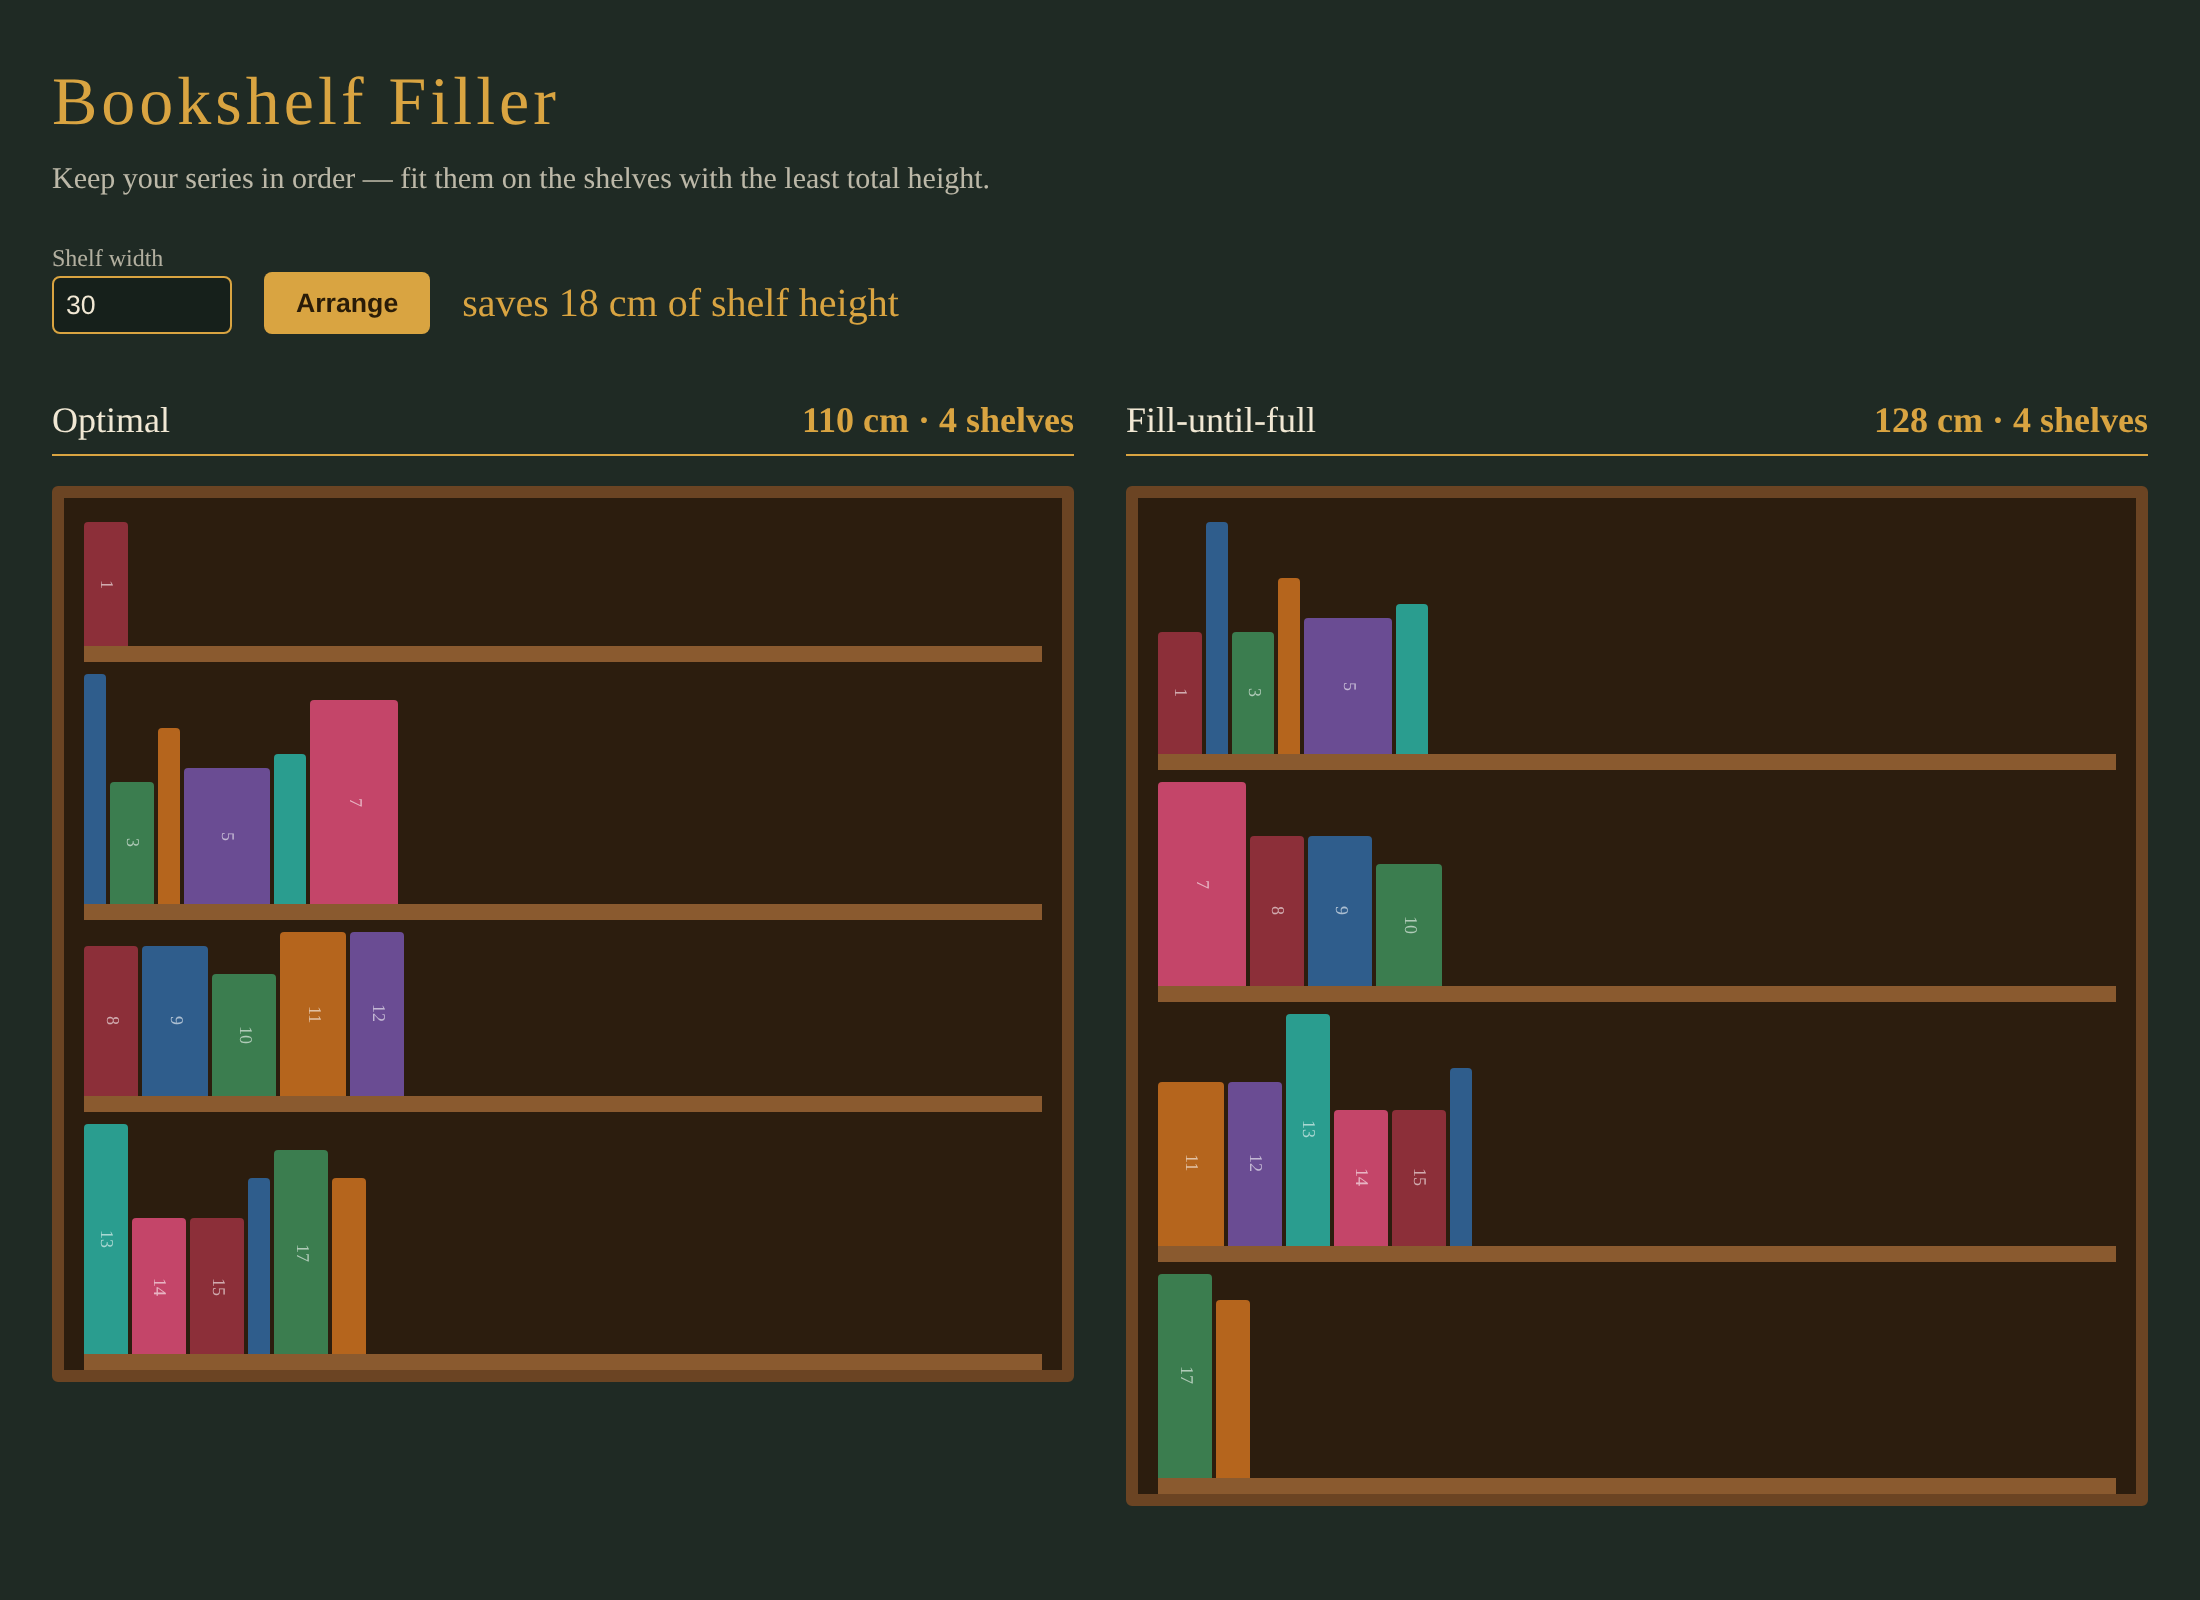
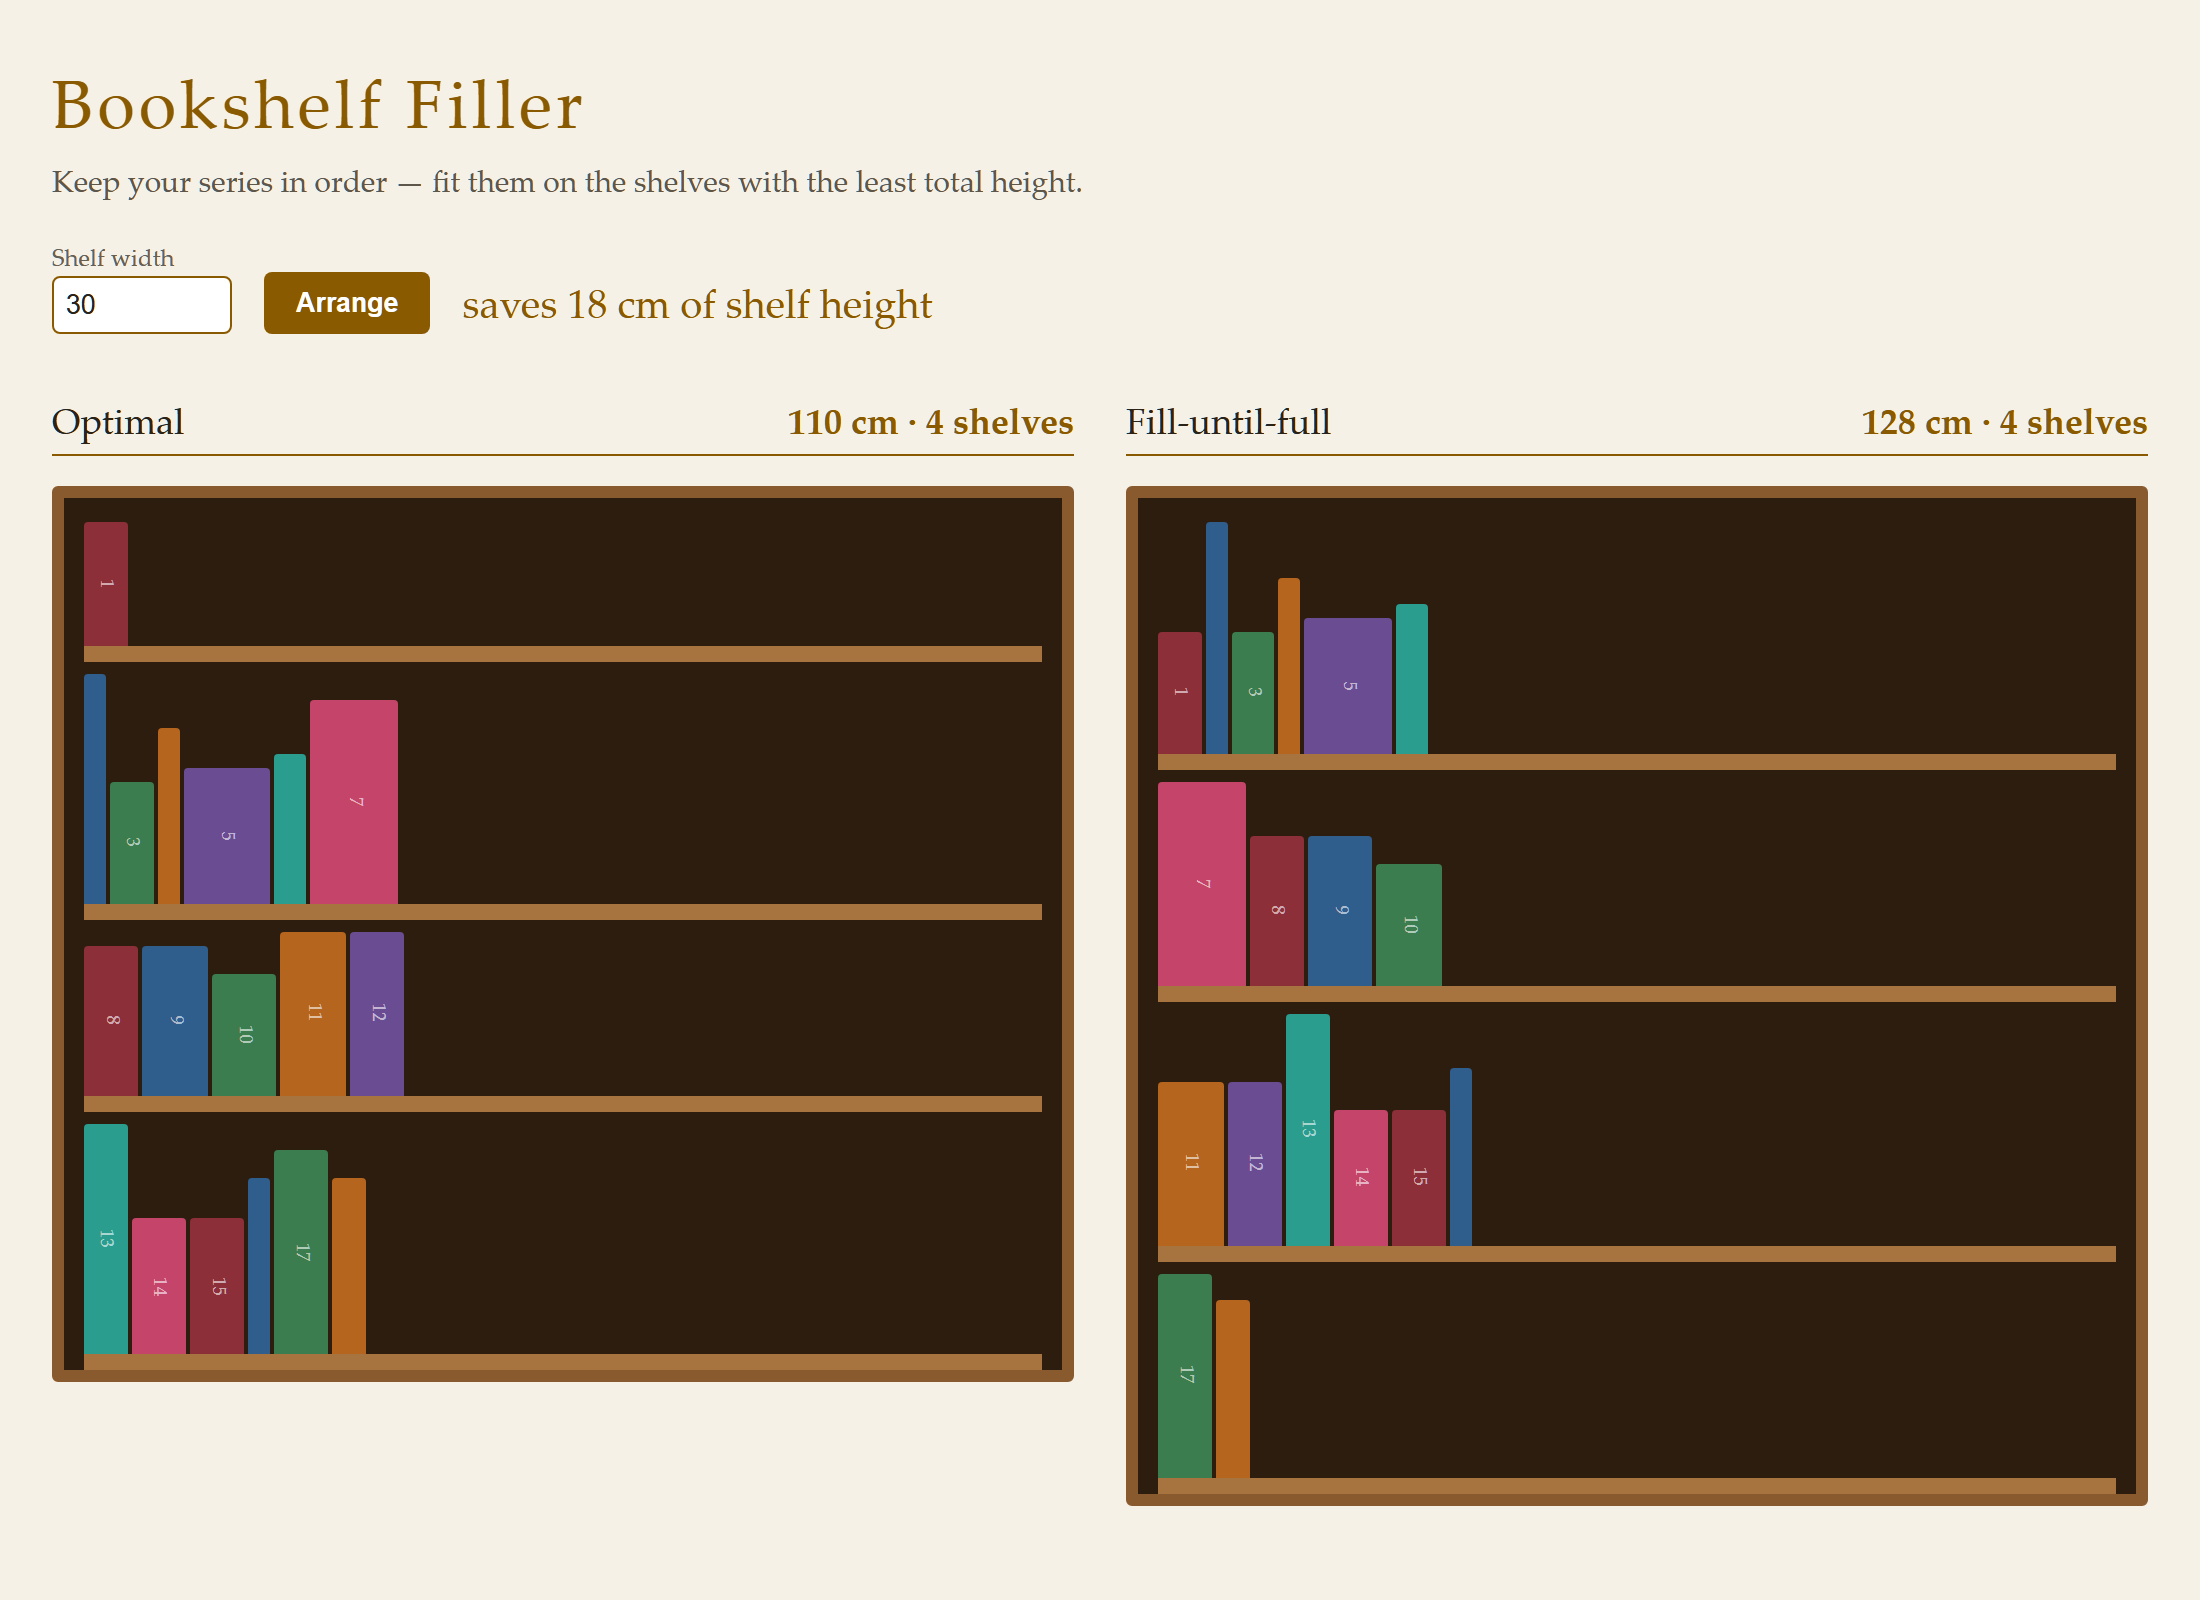
Update bookshelf-filler in catalog
Replaces the catalog snapshot of bookshelf-filler with its current branch state.

diff --git a/projects/bookshelf-filler/static/index.html b/projects/bookshelf-filler/static/index.html
@@ -13,17 +13,23 @@ h2{font-weight:400;font-size:18px;border-bottom:1px solid var(--gold);padding-bo
 .shelf{display:flex;align-items:flex-end;gap:2px;border-bottom:8px solid var(--wood2);padding-top:6px}
 .bk{border-radius:2px 2px 0 0;font-size:9px;writing-mode:vertical-rl;text-align:center;overflow:hidden;color:#fff9;display:flex;align-items:center;justify-content:center}
 #err{color:#ff9d8a}.sv{color:var(--gold);font-size:20px}
+@media (prefers-color-scheme: light){:root{--bg:#f6f1e6;--ink:#2a2418;--wood:#8a5a2f;--wood2:#a7743f;--gold:#8a5a00}body{background:var(--bg)}input{background:#ffffff;color:#2a2418}button{color:#ffffff}#err{color:#b8321a}}
 </style></head><body><main>
 <h1>Bookshelf Filler</h1><p class="s">Keep your series in order — fit them on the shelves with the least total height.</p>
-<div class="top"><div><label>Shelf width</label><input id="w" type="number"></div><button id="go">Arrange</button><span class="sv" id="sv"></span><span id="err"></span></div>
+<div class="top"><div><label>Shelf width</label><input id="w" type="number" min="1" step="any"></div><button id="go">Arrange</button><span class="sv" id="sv"></span><span id="err"></span></div>
 <div class="cols"><div><h2>Optimal <b id="ot"></b></h2><div class="case" id="o"></div></div><div><h2>Fill-until-full <b id="gt"></b></h2><div class="case" id="g"></div></div></div></main>
 <script>
-let D;const $=i=>document.getElementById(i);const K=3.4;
+let D,LAST=null;const $=i=>document.getElementById(i);const K=3.4;
 const pal=['#8c2f39','#2f5d8c','#3b7d4f','#b5651d','#6a4c93','#2a9d8f','#c44569'];
-const draw=(r,id,hi)=>{const byT={};D.books.forEach((b,i)=>byT[b.title]=[b,i]);
-$(id).innerHTML=r.shelves.map(s=>`<div class="shelf" style="min-height:${s.height*K}px">${s.books.map(t=>{const[b,i]=byT[t];return`<div class="bk" title="${t}" style="width:${b.thickness*K*1.6}px;height:${b.height*K}px;background:${pal[i%pal.length]}">${b.thickness>=4?t.replace('Book ',''):''}</div>`}).join('')}</div>`).join('')};
-async function run(){$('err').textContent='';const r=await fetch('/fill',{method:'POST',headers:{'Content-Type':'application/json'},body:JSON.stringify({shelf_width:+$('w').value,books:D.books})});
+const draw=(r,id)=>{const el=$(id);const byT={};D.books.forEach((b,i)=>byT[b.title]=[b,i]);
+const px=t=>byT[t][0].thickness*K*1.6+2;
+const widest=Math.max(...r.shelves.map(s=>s.books.reduce((a,t)=>a+px(t),0)));
+const f=Math.min(1,Math.max(60,el.clientWidth-44)/widest);
+el.innerHTML=r.shelves.map(s=>`<div class="shelf" style="min-height:${s.height*K}px">${s.books.map(t=>{const[b,i]=byT[t];return`<div class="bk" title="${t}" style="width:${b.thickness*K*1.6*f}px;height:${b.height*K}px;background:${pal[i%pal.length]}">${b.thickness>=4?t.replace('Book ',''):''}</div>`}).join('')}</div>`).join('')};
+async function run(){$('err').textContent='';try{const r=await fetch('/fill',{method:'POST',headers:{'Content-Type':'application/json'},body:JSON.stringify({shelf_width:+$('w').value,books:D.books})});
 const j=await r.json();if(!r.ok){$('err').textContent=j.detail;return}
-draw(j.optimal,'o');draw(j.greedy,'g');$('ot').textContent=j.optimal.total_height+' cm · '+j.optimal.count+' shelves';$('gt').textContent=j.greedy.total_height+' cm · '+j.greedy.count+' shelves';$('sv').textContent='saves '+j.height_saved+' cm of shelf height'}
-fetch('/sample').then(r=>r.json()).then(d=>{D=d;$('w').value=d.shelf_width;run()});$('go').onclick=run;
+LAST=j;draw(j.optimal,'o');draw(j.greedy,'g');$('ot').textContent=j.optimal.total_height+' cm · '+j.optimal.count+' shelves';$('gt').textContent=j.greedy.total_height+' cm · '+j.greedy.count+' shelves';$('sv').textContent='saves '+j.height_saved+' cm of shelf height'}
+catch(e){$('err').textContent='Could not arrange the books. Try again.'}}
+window.addEventListener('resize',()=>{if(LAST){draw(LAST.optimal,'o');draw(LAST.greedy,'g')}});
+fetch('/sample').then(r=>r.json()).then(d=>{D=d;$('w').value=d.shelf_width;run()}).catch(()=>{$('err').textContent='Could not load the sample shelf.'});$('go').onclick=run;
 </script></body></html>

diff --git a/projects/bookshelf-filler/tests/test_all.py b/projects/bookshelf-filler/tests/test_all.py
@@ -72,3 +72,15 @@ def test_api():
     assert r["height_saved"] == 18.0
     assert c.get("/").status_code == 200
     assert c.post("/fill", json={"shelf_width": 1, "books": BOOKS}).status_code == 422
+
+
+def test_index_has_error_text():
+    assert "Could not load the sample shelf" in c.get("/").text
+
+
+def test_index_has_light_scheme():
+    assert "prefers-color-scheme: light" in c.get("/").text
+
+
+def test_shelf_width_input_is_positive():
+    assert 'min="1"' in c.get("/").text
